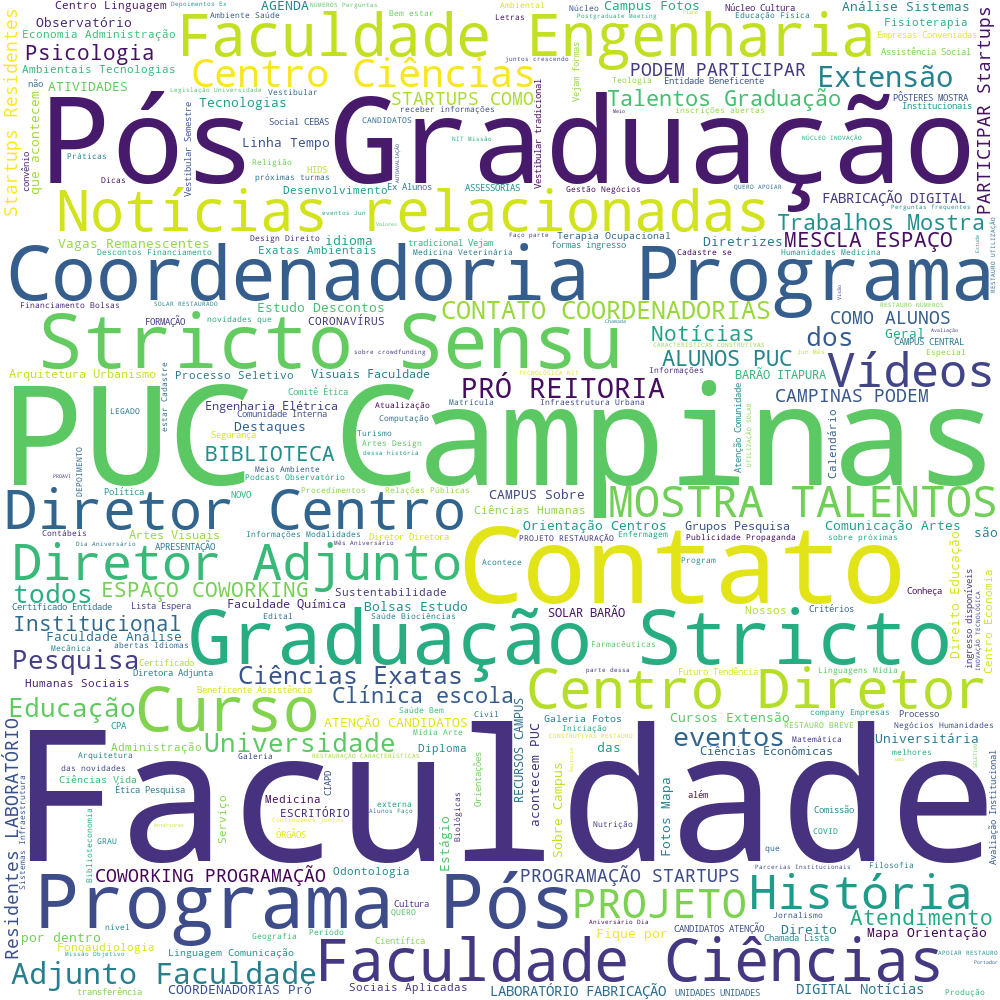
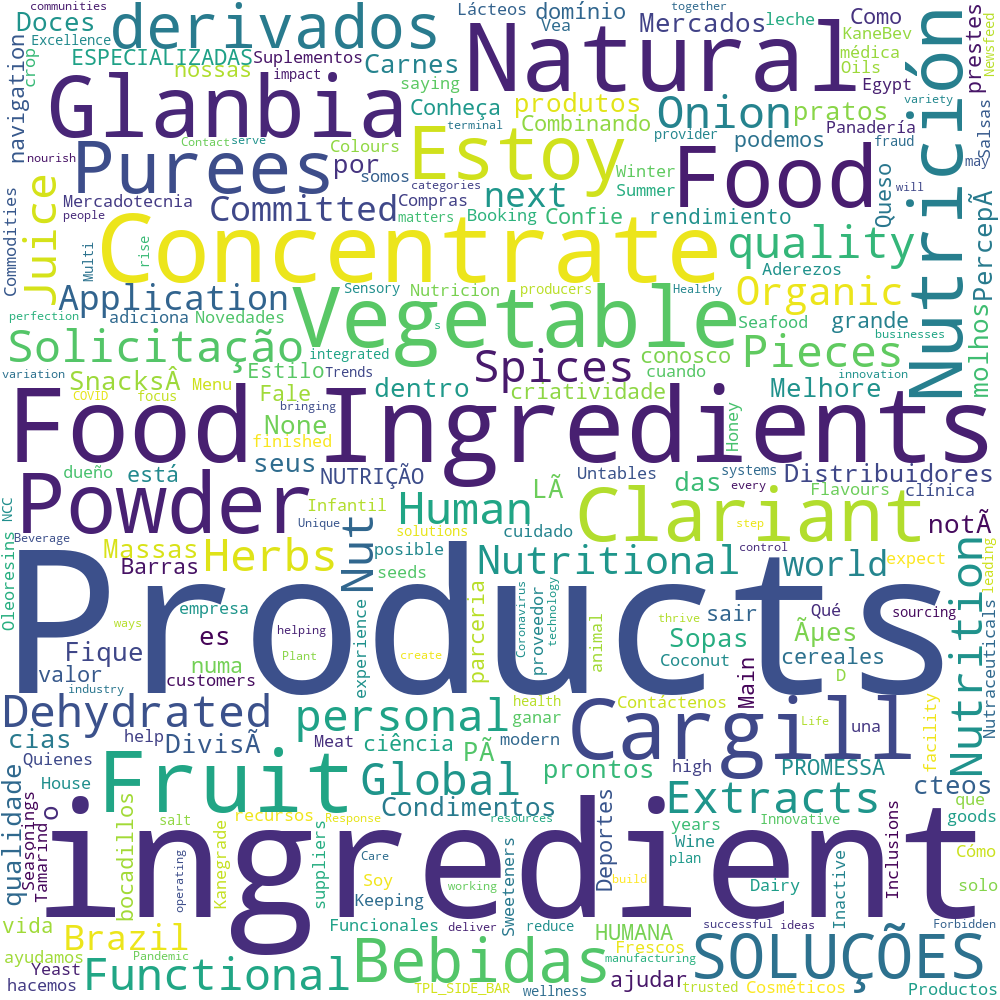
Update 1

diff --git a/SiteAnalysis.py b/SiteAnalysis.py
@@ -98,7 +98,31 @@ def GenerateWordCloud():
     plt.imshow(wordcloud);
     wordcloud.to_file("WordCloud.png")
 
+def GetURLsFromDomain(domain_http):
+    # Open The Output Excel
+    if os.path.exists("URL_List.xlsx"):
+        os.remove("URL_List.xlsx")
+    
+    wb = Workbook()
+    wb.save(filename = 'URL_List.xlsx')
+    workbook = load_workbook(filename="URL_List.xlsx")
+    sheet = workbook.active
+    
+     
+    url = domain_http
+    reqs = requests.get(url)
+    soup = BeautifulSoup(reqs.text, 'html.parser')
+     
+    for link in soup.find_all('a'):
+        TempList = link.get('href')
+        rows = sheet.max_row
+        sheet.cell(row=rows+1, column=1).value = TempList
+        
+        
+    workbook.save("URL_List.xlsx")
+    workbook.close()
 
-getSiteList("SitesList.xlsx")
-#getH1H2Data()
+#GetURLsFromDomain("https://www.puc-campinas.edu.br/")
+getSiteList("FoodIngredients.xlsx")
+getH1H2Data()
 GenerateWordCloud()
